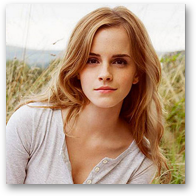
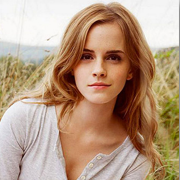
updated images in assets, added images to shopping and location section
added all images and assets to all sections. Need to get copy from mom
to finalize sections and sayings. tried to fix shopping section and
“who made my cloths” overlay with z-index, but only seems to overlay
one of the images and won’t overlay the other two. Something is
missing/wrong.

diff --git a/source/index.html b/source/index.html
@@ -38,25 +38,56 @@
         <h3>Great atmosphere very relaxed environment and the nicest changing rooms ever!</h3>
         <p><a href="#">Directions</a><span>125 W Washington St Marquette MI 49855</span></p>
         <p><a href="#">Event Calendar</a></p>
+        <div class="winter-surf">
+            <img src="./assets/winter-surf.png">
+            <p><strong>We have you covered!</strong></p>
+            <p>No matter the weather.</p>
+        </div>
+        <div class="alpaca_sweater">
+            <img src="./assets/alpaca_sweater.png">
+            <p><strong>Open 7 days a week</strong></p>
+            <p><strong>362 Days a year!</strong></p>
+        </div>
+        <div class="relaxed">
+            <img src="./assets/relax-enviroment.png">
+            <p><strong>Relaxing enviroment!</strong></p>
+            <p>Come in and shop in comfort.</p>
+        </div>
     </section>
     <img class="img-divider" src="./assets/landscape-1.png">
     <section class="shopping">
         <h1>Shopping</h1>
-        <h3>Can't get into the store? You can find most of your favorites like incense and body oils in our Online store.</h3>
+        <h3>Can't get into the store? You can find most of your favorites like incense and body oils in our online store.</h3>
         <p><a href="#">Online Store</a></p>
-        <p><a href="#">Fasion Revolution</a></p>
+        <p><a href="#">Fashion Revolution</a></p>
+            <img class="overlay" src="./assets/who-made-my-cloths.png">
+            <div class="panara-shirt">
+                <p><strong>Panara Merchandise</strong></p>
+                <p>great in any weather</p>
+                <img src="./assets/panara-shirt.png">
+            </div>
+            <div class="black-jacket">
+                <img src="./assets/black-jacket.png">
+                <p><strong>Cloths and accesories for any occasion</strong></p>
+                <p>check daily for updates and new products</p>
+            </div>
+            <div class="oils">
+                <img src="./assets/oils.png">
+                <p><strong>Esenial Oils and Incents</strong></p>
+                <p>available year round instore or online</p>
+            </div>
     </section>
     <img class="img-divider" src="./assets/landscape-2.png">
     <section class="blog">
         <h1>Blog</h1>
         <h3>My life, my store, my passions and random observations.</h3>
         <div>
-            <div class="blog-post">
+            <div class="blog-post-1">
                 <img src="./assets/emma.png">
                 <h4>Persons of Interest</h4>
                 <p>Lorem ipsum dolor sit amet, consectetur adipiscing elit, sed do eiusmod tempor incididunt ut labore et dolore magna aliqua. …</p>
             </div>
-            <div class="blog-post">
+            <div class="blog-post-2">
                 <img src="./assets/great_lakes_jewlery.png">
                 <h4>Products of Interest</h4>
                 <p>Lorem ipsum dolor sit amet, consectetur adipiscing elit, sed do eiusmod tempor incididunt ut labore et dolore magna aliqua. …</p>

diff --git a/source/main.css b/source/main.css
@@ -17,9 +17,7 @@ p {
     font-family: Cantarell;
 }
 
-.location > p > a,
-.shopping > p > a,
-.fair-trade > p > a {
+section > p > a {
     color: #000000;
     text-decoration: underline;
 }
@@ -35,7 +33,7 @@ span {
     font-size: 4vw;
     width: auto;
     margin: 0 auto;
-    padding: 1em 0 1em 3em;
+    padding: 1em 0 1em 3.25em;
 }
 
 .location > h3,
@@ -44,9 +42,72 @@ span {
     width: 30vw;
     margin-top: 0;
     margin-bottom: 0;
-    padding: 0 0 1em 8em;
+    padding: 0 0 1em 13%;
     font-weight: normal;
     font-family: Cantarell;
+}
+
+div > img {
+    box-shadow: 0 4px 8px 0 rgba(0, 0, 0, 0.2), 0 6px 20px 0 rgba(0, 0, 0, 0.19);
+}
+
+.alpaca_sweater {
+    margin: 6% 0 5% 25%;
+}
+
+.relaxed{
+    float: right;
+    margin-top: -8%;
+    margin-right: 14%;
+}
+
+.winter-surf {
+    float: right;
+    margin-top: -10em;
+    padding-right: 8%;
+}
+
+.winter-surf > p,
+.relaxed > p,
+.alpaca_sweater > p,
+.black-jacket > p,
+.panara-shirt > p,
+.oils > p {
+    margin: 1% 0;
+}
+
+.overlay {
+    z-index: 2;
+    float: right;
+    display: block;
+    position: relative;
+    margin-right: 25%;
+    margin-top: -5%
+}
+
+.panara-shirt {
+    float: right;
+    margin-top: -20%;
+    margin-right: -37%;
+    position: relative;
+    display: block;
+    z-index: 1;
+}
+
+.black-jacket{
+    margin: 3% 0 5% 30%;
+    position: relative;
+    display: block;
+    z-index: 1;
+}
+
+.oils{
+    float: right;
+    margin-top: -20%;
+    margin-right: 8%;
+    position: relative;
+    display: block;
+    z-index: 1;
 }
 
 .social-icon {
@@ -60,10 +121,18 @@ span {
     height: auto;
 }
 
-.blog-post {
+.blog-post-1 {
     float: left;
     width: 20vw;
     margin-right: 15%;
+    display: inline;
+    text-align: left;
+}
+
+.blog-post-2 {
+    float: left;
+    width: 20vw;
+    margin-left: 9%;
     display: inline;
     text-align: left;
 }
@@ -118,7 +187,7 @@ nav > div{
     font-size: 1vw;
     width: 40vw;
     margin-top: 0;
-    padding: 0 0 1em 12em;
+    padding: 0 0 1em 13em;
 }
 
 .shopping {
@@ -184,6 +253,10 @@ nav > div{
     width: 29%;
     margin: 1em auto 0 auto;
     padding-bottom: 2em;
+}
+
+.email-phone > a {
+    color: #ffffff;
 }
 
 .logo {
